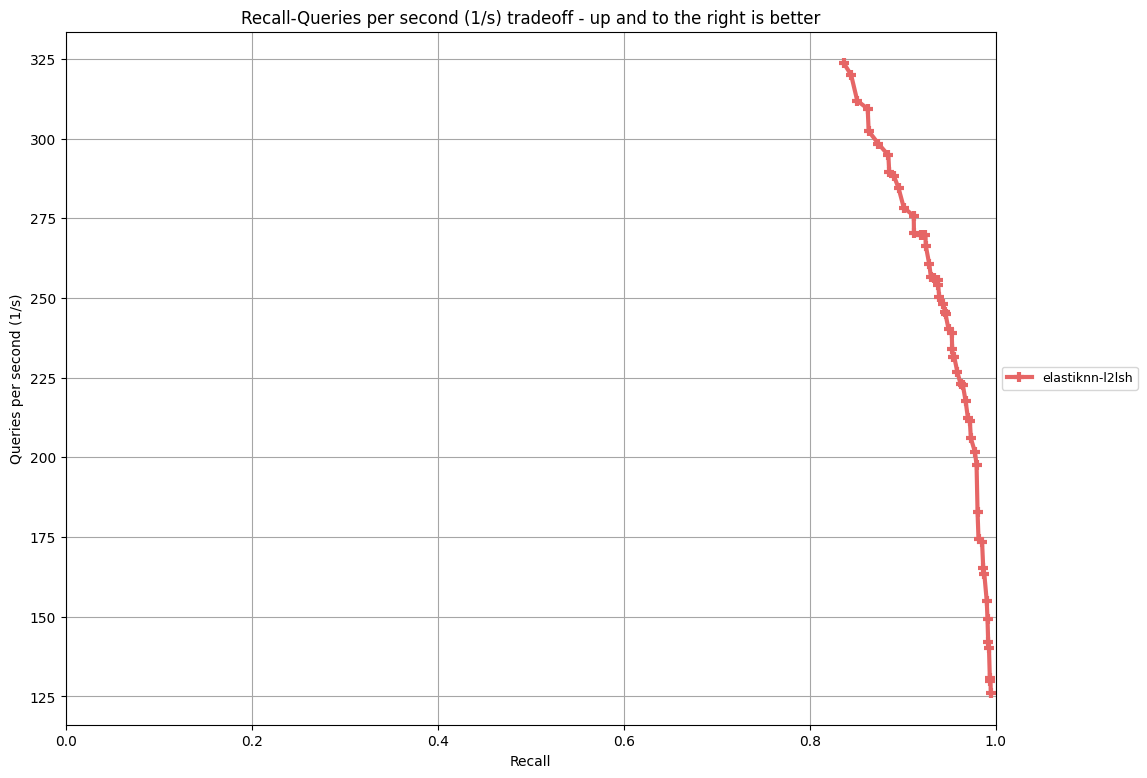
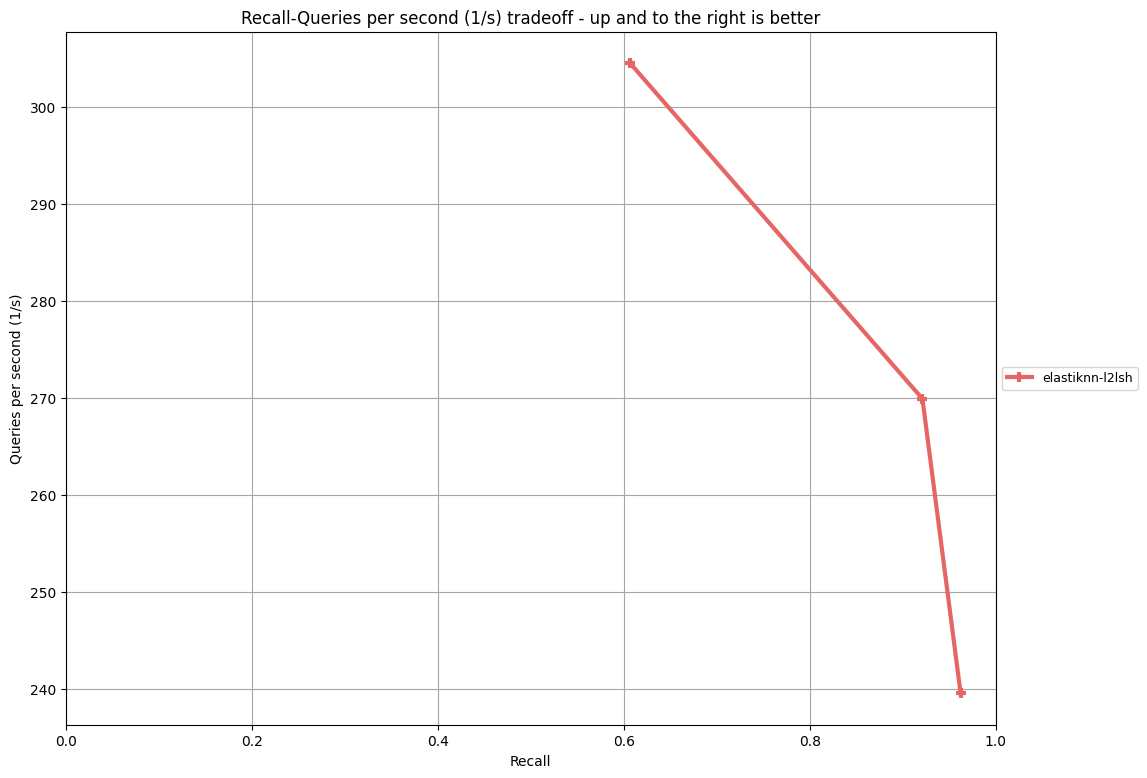
fewer results

diff --git a/docs/pages/performance/fashion-mnist/results.md b/docs/pages/performance/fashion-mnist/results.md
@@ -1,358 +1,5 @@
 |Model|Parameters|Recall|Queries per Second|
 |---|---|---|---|
-|eknn-l2lsh|L=125 k=9 w=3900 candidates=500 probes=0|0.837|323.650|
-|eknn-l2lsh|L=125 k=9 w=4000 candidates=500 probes=0|0.845|319.979|
-|eknn-l2lsh|L=125 k=9 w=4100 candidates=500 probes=0|0.851|311.906|
-|eknn-l2lsh|L=125 k=8 w=3900 candidates=500 probes=0|0.862|309.353|
-|eknn-l2lsh|L=150 k=9 w=3900 candidates=500 probes=0|0.863|302.352|
-|eknn-l2lsh|L=150 k=9 w=4000 candidates=500 probes=0|0.870|298.232|
-|eknn-l2lsh|L=125 k=8 w=4100 candidates=500 probes=0|0.874|298.451|
-|eknn-l2lsh|L=150 k=9 w=4100 candidates=500 probes=0|0.877|285.484|
-|eknn-l2lsh|L=125 k=9 w=3900 candidates=750 probes=0|0.877|292.179|
-|eknn-l2lsh|L=175 k=9 w=3900 candidates=500 probes=0|0.882|282.479|
-|eknn-l2lsh|L=125 k=7 w=3900 candidates=500 probes=0|0.884|289.416|
-|eknn-l2lsh|L=125 k=9 w=4000 candidates=750 probes=0|0.885|294.792|
-|eknn-l2lsh|L=150 k=8 w=3900 candidates=500 probes=0|0.886|289.585|
-|eknn-l2lsh|L=125 k=7 w=4000 candidates=500 probes=0|0.889|282.787|
-|eknn-l2lsh|L=175 k=9 w=4000 candidates=500 probes=0|0.889|286.607|
-|eknn-l2lsh|L=150 k=8 w=4000 candidates=500 probes=0|0.891|280.175|
-|eknn-l2lsh|L=125 k=9 w=4100 candidates=750 probes=0|0.891|288.164|
-|eknn-l2lsh|L=125 k=7 w=4100 candidates=500 probes=0|0.892|277.219|
-|eknn-l2lsh|L=175 k=9 w=4100 candidates=500 probes=0|0.895|277.871|
-|eknn-l2lsh|L=125 k=9 w=3900 candidates=500 probes=1|0.896|253.335|
-|eknn-l2lsh|L=150 k=8 w=4100 candidates=500 probes=0|0.896|284.495|
-|eknn-l2lsh|L=200 k=9 w=3900 candidates=500 probes=0|0.897|273.516|
-|eknn-l2lsh|L=125 k=9 w=3900 candidates=1000 probes=0|0.900|276.969|
-|eknn-l2lsh|L=150 k=9 w=3900 candidates=750 probes=0|0.900|277.357|
-|eknn-l2lsh|L=125 k=8 w=3900 candidates=750 probes=0|0.901|278.315|
-|eknn-l2lsh|L=125 k=9 w=4000 candidates=500 probes=1|0.902|255.236|
-|eknn-l2lsh|L=200 k=9 w=4000 candidates=500 probes=0|0.903|269.983|
-|eknn-l2lsh|L=175 k=8 w=3900 candidates=500 probes=0|0.904|272.791|
-|eknn-l2lsh|L=150 k=7 w=3900 candidates=500 probes=0|0.906|264.575|
-|eknn-l2lsh|L=150 k=9 w=4000 candidates=750 probes=0|0.906|275.675|
-|eknn-l2lsh|L=125 k=9 w=4100 candidates=500 probes=1|0.907|248.027|
-|eknn-l2lsh|L=125 k=9 w=4000 candidates=1000 probes=0|0.907|274.705|
-|eknn-l2lsh|L=200 k=9 w=4100 candidates=500 probes=0|0.909|260.129|
-|eknn-l2lsh|L=175 k=8 w=4000 candidates=500 probes=0|0.909|272.299|
-|eknn-l2lsh|L=150 k=9 w=4100 candidates=750 probes=0|0.912|266.915|
-|eknn-l2lsh|L=125 k=9 w=4100 candidates=1000 probes=0|0.912|270.403|
-|eknn-l2lsh|L=125 k=8 w=4100 candidates=750 probes=0|0.912|275.778|
-|eknn-l2lsh|L=125 k=9 w=3900 candidates=1250 probes=0|0.914|259.536|
-|eknn-l2lsh|L=150 k=7 w=4100 candidates=500 probes=0|0.914|264.401|
-|eknn-l2lsh|L=175 k=9 w=3900 candidates=750 probes=0|0.915|267.361|
-|eknn-l2lsh|L=150 k=9 w=3900 candidates=500 probes=1|0.916|233.020|
-|eknn-l2lsh|L=125 k=8 w=3900 candidates=500 probes=1|0.917|242.059|
-|eknn-l2lsh|L=150 k=9 w=3900 candidates=1000 probes=0|0.919|262.989|
-|eknn-l2lsh|L=125 k=7 w=3900 candidates=750 probes=0|0.920|269.825|
-|eknn-l2lsh|L=150 k=8 w=3900 candidates=750 probes=0|0.920|269.915|
-|eknn-l2lsh|L=150 k=9 w=4000 candidates=500 probes=1|0.921|232.303|
-|eknn-l2lsh|L=175 k=7 w=3900 candidates=500 probes=0|0.921|257.151|
-|eknn-l2lsh|L=175 k=9 w=4000 candidates=750 probes=0|0.921|263.695|
-|eknn-l2lsh|L=125 k=8 w=3900 candidates=1000 probes=0|0.922|261.355|
-|eknn-l2lsh|L=125 k=9 w=3900 candidates=500 probes=2|0.924|217.381|
-|eknn-l2lsh|L=125 k=8 w=4100 candidates=500 probes=1|0.925|236.820|
-|eknn-l2lsh|L=175 k=7 w=4000 candidates=500 probes=0|0.925|254.374|
-|eknn-l2lsh|L=150 k=9 w=4000 candidates=1000 probes=0|0.925|257.201|
-|eknn-l2lsh|L=125 k=7 w=4000 candidates=750 probes=0|0.925|266.401|
-|eknn-l2lsh|L=150 k=8 w=4000 candidates=750 probes=0|0.925|269.618|
-|eknn-l2lsh|L=150 k=9 w=4100 candidates=500 probes=1|0.926|222.971|
-|eknn-l2lsh|L=200 k=8 w=4100 candidates=500 probes=0|0.926|248.573|
-|eknn-l2lsh|L=125 k=9 w=4100 candidates=1250 probes=0|0.926|250.285|
-|eknn-l2lsh|L=125 k=9 w=3900 candidates=750 probes=1|0.927|239.317|
-|eknn-l2lsh|L=175 k=9 w=4100 candidates=750 probes=0|0.927|256.851|
-|eknn-l2lsh|L=200 k=9 w=3900 candidates=750 probes=0|0.927|258.428|
-|eknn-l2lsh|L=125 k=9 w=4000 candidates=500 probes=2|0.928|220.280|
-|eknn-l2lsh|L=125 k=7 w=4100 candidates=750 probes=0|0.928|258.768|
-|eknn-l2lsh|L=175 k=9 w=3900 candidates=500 probes=1|0.929|215.929|
-|eknn-l2lsh|L=150 k=8 w=4100 candidates=750 probes=0|0.929|260.596|
-|eknn-l2lsh|L=150 k=9 w=4100 candidates=1000 probes=0|0.930|256.525|
-|eknn-l2lsh|L=150 k=9 w=3900 candidates=1250 probes=0|0.931|244.528|
-|eknn-l2lsh|L=125 k=9 w=4100 candidates=500 probes=2|0.932|213.809|
-|eknn-l2lsh|L=125 k=9 w=4000 candidates=750 probes=1|0.932|238.150|
-|eknn-l2lsh|L=200 k=9 w=4000 candidates=750 probes=0|0.932|245.158|
-|eknn-l2lsh|L=125 k=8 w=4100 candidates=1000 probes=0|0.932|251.971|
-|eknn-l2lsh|L=150 k=8 w=3900 candidates=500 probes=1|0.933|224.721|
-|eknn-l2lsh|L=125 k=7 w=3900 candidates=500 probes=1|0.933|225.817|
-|eknn-l2lsh|L=175 k=9 w=3900 candidates=1000 probes=0|0.933|248.932|
-|eknn-l2lsh|L=175 k=9 w=4000 candidates=500 probes=1|0.934|214.027|
-|eknn-l2lsh|L=200 k=7 w=3900 candidates=500 probes=0|0.934|243.251|
-|eknn-l2lsh|L=175 k=8 w=3900 candidates=750 probes=0|0.934|256.273|
-|eknn-l2lsh|L=125 k=8 w=3900 candidates=1250 probes=0|0.935|244.842|
-|eknn-l2lsh|L=125 k=7 w=4000 candidates=500 probes=1|0.936|222.739|
-|eknn-l2lsh|L=125 k=9 w=4100 candidates=750 probes=1|0.936|232.567|
-|eknn-l2lsh|L=150 k=8 w=4000 candidates=500 probes=1|0.937|209.724|
-|eknn-l2lsh|L=200 k=7 w=4000 candidates=500 probes=0|0.937|237.096|
-|eknn-l2lsh|L=150 k=9 w=4000 candidates=1250 probes=0|0.937|242.487|
-|eknn-l2lsh|L=150 k=8 w=3900 candidates=1000 probes=0|0.937|246.914|
-|eknn-l2lsh|L=200 k=9 w=4100 candidates=750 probes=0|0.937|250.330|
-|eknn-l2lsh|L=175 k=9 w=4100 candidates=500 probes=1|0.938|208.918|
-|eknn-l2lsh|L=175 k=9 w=4000 candidates=1000 probes=0|0.938|235.525|
-|eknn-l2lsh|L=175 k=8 w=4000 candidates=750 probes=0|0.938|253.939|
-|eknn-l2lsh|L=150 k=7 w=3900 candidates=750 probes=0|0.938|255.499|
-|eknn-l2lsh|L=150 k=9 w=3900 candidates=500 probes=2|0.939|199.486|
-|eknn-l2lsh|L=125 k=7 w=4100 candidates=500 probes=1|0.939|218.346|
-|eknn-l2lsh|L=200 k=7 w=4100 candidates=500 probes=0|0.939|232.796|
-|eknn-l2lsh|L=125 k=7 w=3900 candidates=1000 probes=0|0.939|250.426|
-|eknn-l2lsh|L=200 k=9 w=3900 candidates=500 probes=1|0.940|203.171|
-|eknn-l2lsh|L=125 k=8 w=3900 candidates=500 probes=2|0.940|209.130|
-|eknn-l2lsh|L=150 k=8 w=4100 candidates=500 probes=1|0.940|214.884|
-|eknn-l2lsh|L=150 k=9 w=3900 candidates=750 probes=1|0.942|220.811|
-|eknn-l2lsh|L=200 k=9 w=3900 candidates=1000 probes=0|0.942|238.436|
-|eknn-l2lsh|L=150 k=9 w=4100 candidates=1250 probes=0|0.942|240.364|
-|eknn-l2lsh|L=150 k=8 w=4000 candidates=1000 probes=0|0.942|245.700|
-|eknn-l2lsh|L=150 k=9 w=4000 candidates=500 probes=2|0.943|198.876|
-|eknn-l2lsh|L=125 k=9 w=3900 candidates=1000 probes=1|0.943|227.127|
-|eknn-l2lsh|L=175 k=9 w=3900 candidates=1250 probes=0|0.943|232.425|
-|eknn-l2lsh|L=175 k=9 w=4100 candidates=1000 probes=0|0.943|242.498|
-|eknn-l2lsh|L=125 k=7 w=4000 candidates=1000 probes=0|0.943|246.386|
-|eknn-l2lsh|L=200 k=9 w=4000 candidates=500 probes=1|0.944|199.125|
-|eknn-l2lsh|L=125 k=8 w=3900 candidates=750 probes=1|0.944|217.569|
-|eknn-l2lsh|L=125 k=8 w=4100 candidates=1250 probes=0|0.944|239.834|
-|eknn-l2lsh|L=150 k=7 w=4100 candidates=750 probes=0|0.944|247.966|
-|eknn-l2lsh|L=175 k=8 w=3900 candidates=500 probes=1|0.945|203.812|
-|eknn-l2lsh|L=150 k=8 w=4100 candidates=1000 probes=0|0.945|245.532|
-|eknn-l2lsh|L=125 k=8 w=4100 candidates=500 probes=2|0.946|201.687|
-|eknn-l2lsh|L=125 k=7 w=4100 candidates=1000 probes=0|0.946|244.874|
-|eknn-l2lsh|L=150 k=9 w=4100 candidates=500 probes=2|0.947|188.774|
-|eknn-l2lsh|L=200 k=9 w=4100 candidates=500 probes=1|0.947|197.100|
-|eknn-l2lsh|L=150 k=9 w=4000 candidates=750 probes=1|0.947|219.975|
-|eknn-l2lsh|L=125 k=9 w=4000 candidates=1000 probes=1|0.947|225.280|
-|eknn-l2lsh|L=200 k=9 w=4000 candidates=1000 probes=0|0.947|238.454|
-|eknn-l2lsh|L=175 k=8 w=4000 candidates=500 probes=1|0.948|202.060|
-|eknn-l2lsh|L=150 k=7 w=3900 candidates=500 probes=1|0.948|206.707|
-|eknn-l2lsh|L=125 k=9 w=3900 candidates=750 probes=2|0.948|209.180|
-|eknn-l2lsh|L=175 k=9 w=4000 candidates=1250 probes=0|0.948|225.770|
-|eknn-l2lsh|L=150 k=8 w=3900 candidates=1250 probes=0|0.948|237.059|
-|eknn-l2lsh|L=175 k=9 w=3900 candidates=500 probes=2|0.949|183.198|
-|eknn-l2lsh|L=175 k=7 w=3900 candidates=750 probes=0|0.949|234.738|
-|eknn-l2lsh|L=175 k=8 w=3900 candidates=1000 probes=0|0.949|240.218|
-|eknn-l2lsh|L=150 k=9 w=4100 candidates=750 probes=1|0.950|213.884|
-|eknn-l2lsh|L=125 k=8 w=4100 candidates=750 probes=1|0.951|219.195|
-|eknn-l2lsh|L=125 k=9 w=4100 candidates=1000 probes=1|0.951|219.441|
-|eknn-l2lsh|L=200 k=9 w=4100 candidates=1000 probes=0|0.951|234.136|
-|eknn-l2lsh|L=125 k=7 w=3900 candidates=1250 probes=0|0.951|235.937|
-|eknn-l2lsh|L=200 k=8 w=4100 candidates=750 probes=0|0.951|237.657|
-|eknn-l2lsh|L=150 k=8 w=3900 candidates=500 probes=2|0.952|189.909|
-|eknn-l2lsh|L=175 k=9 w=3900 candidates=750 probes=1|0.952|206.997|
-|eknn-l2lsh|L=125 k=9 w=4000 candidates=750 probes=2|0.952|208.470|
-|eknn-l2lsh|L=125 k=9 w=3900 candidates=1250 probes=1|0.952|213.370|
-|eknn-l2lsh|L=200 k=9 w=3900 candidates=1250 probes=0|0.952|216.606|
-|eknn-l2lsh|L=150 k=8 w=4000 candidates=1250 probes=0|0.952|232.135|
-|eknn-l2lsh|L=175 k=7 w=4000 candidates=750 probes=0|0.952|235.437|
-|eknn-l2lsh|L=175 k=9 w=4000 candidates=500 probes=2|0.953|181.086|
-|eknn-l2lsh|L=125 k=7 w=3900 candidates=500 probes=2|0.953|196.345|
-|eknn-l2lsh|L=150 k=7 w=4100 candidates=500 probes=1|0.953|203.767|
-|eknn-l2lsh|L=175 k=9 w=4100 candidates=1250 probes=0|0.953|227.474|
-|eknn-l2lsh|L=150 k=7 w=3900 candidates=1000 probes=0|0.953|234.020|
-|eknn-l2lsh|L=175 k=8 w=4000 candidates=1000 probes=0|0.953|239.020|
-|eknn-l2lsh|L=125 k=7 w=4000 candidates=1250 probes=0|0.954|231.635|
-|eknn-l2lsh|L=150 k=8 w=4000 candidates=500 probes=2|0.955|180.825|
-|eknn-l2lsh|L=125 k=7 w=4000 candidates=500 probes=2|0.955|191.810|
-|eknn-l2lsh|L=125 k=9 w=4100 candidates=750 probes=2|0.955|201.907|
-|eknn-l2lsh|L=150 k=9 w=3900 candidates=1000 probes=1|0.955|209.590|
-|eknn-l2lsh|L=175 k=9 w=4100 candidates=500 probes=2|0.956|177.716|
-|eknn-l2lsh|L=175 k=9 w=4000 candidates=750 probes=1|0.956|200.126|
-|eknn-l2lsh|L=150 k=8 w=3900 candidates=750 probes=1|0.956|213.143|
-|eknn-l2lsh|L=200 k=9 w=4000 candidates=1250 probes=0|0.956|221.315|
-|eknn-l2lsh|L=150 k=8 w=4100 candidates=1250 probes=0|0.956|231.391|
-|eknn-l2lsh|L=200 k=9 w=3900 candidates=500 probes=2|0.957|170.595|
-|eknn-l2lsh|L=125 k=7 w=4100 candidates=500 probes=2|0.957|186.862|
-|eknn-l2lsh|L=125 k=7 w=4100 candidates=1250 probes=0|0.957|224.911|
-|eknn-l2lsh|L=150 k=8 w=4100 candidates=500 probes=2|0.958|183.474|
-|eknn-l2lsh|L=175 k=7 w=3900 candidates=500 probes=1|0.958|194.054|
-|eknn-l2lsh|L=125 k=8 w=3900 candidates=1000 probes=1|0.958|208.477|
-|eknn-l2lsh|L=125 k=7 w=3900 candidates=750 probes=1|0.958|213.409|
-|eknn-l2lsh|L=200 k=7 w=3900 candidates=750 probes=0|0.958|224.903|
-|eknn-l2lsh|L=200 k=8 w=4100 candidates=500 probes=1|0.959|187.307|
-|eknn-l2lsh|L=150 k=9 w=3900 candidates=750 probes=2|0.959|192.285|
-|eknn-l2lsh|L=175 k=9 w=4100 candidates=750 probes=1|0.959|195.500|
-|eknn-l2lsh|L=150 k=9 w=4000 candidates=1000 probes=1|0.959|205.758|
-|eknn-l2lsh|L=150 k=8 w=4000 candidates=750 probes=1|0.959|210.001|
-|eknn-l2lsh|L=175 k=8 w=3900 candidates=1250 probes=0|0.959|224.310|
-|eknn-l2lsh|L=150 k=7 w=4100 candidates=1000 probes=0|0.959|226.857|
-|eknn-l2lsh|L=175 k=7 w=4000 candidates=500 probes=1|0.960|189.476|
-|eknn-l2lsh|L=200 k=9 w=3900 candidates=750 probes=1|0.960|191.764|
-|eknn-l2lsh|L=125 k=9 w=3900 candidates=1000 probes=2|0.960|201.594|
-|eknn-l2lsh|L=125 k=9 w=4100 candidates=1250 probes=1|0.960|206.423|
-|eknn-l2lsh|L=125 k=7 w=4000 candidates=750 probes=1|0.960|209.464|
-|eknn-l2lsh|L=200 k=9 w=4100 candidates=1250 probes=0|0.960|221.266|
-|eknn-l2lsh|L=200 k=7 w=4000 candidates=750 probes=0|0.960|221.518|
-|eknn-l2lsh|L=200 k=9 w=4000 candidates=500 probes=2|0.961|165.952|
-|eknn-l2lsh|L=125 k=8 w=3900 candidates=750 probes=2|0.961|195.683|
-|eknn-l2lsh|L=175 k=8 w=3900 candidates=500 probes=2|0.962|174.431|
-|eknn-l2lsh|L=150 k=9 w=4000 candidates=750 probes=2|0.962|190.600|
-|eknn-l2lsh|L=150 k=9 w=4100 candidates=1000 probes=1|0.962|202.603|
-|eknn-l2lsh|L=125 k=7 w=4100 candidates=750 probes=1|0.962|204.999|
-|eknn-l2lsh|L=150 k=8 w=4100 candidates=750 probes=1|0.962|205.715|
-|eknn-l2lsh|L=175 k=8 w=4000 candidates=1250 probes=0|0.962|222.790|
-|eknn-l2lsh|L=175 k=7 w=3900 candidates=1000 probes=0|0.962|222.959|
-|eknn-l2lsh|L=200 k=9 w=4100 candidates=500 probes=2|0.963|165.919|
-|eknn-l2lsh|L=200 k=9 w=4000 candidates=750 probes=1|0.963|189.180|
-|eknn-l2lsh|L=150 k=9 w=3900 candidates=1250 probes=1|0.963|198.103|
-|eknn-l2lsh|L=150 k=7 w=3900 candidates=1250 probes=0|0.963|211.024|
-|eknn-l2lsh|L=200 k=7 w=4100 candidates=750 probes=0|0.963|214.423|
-|eknn-l2lsh|L=175 k=8 w=4000 candidates=500 probes=2|0.964|170.576|
-|eknn-l2lsh|L=150 k=7 w=3900 candidates=500 probes=2|0.964|176.316|
-|eknn-l2lsh|L=175 k=9 w=3900 candidates=1000 probes=1|0.964|190.995|
-|eknn-l2lsh|L=125 k=8 w=4100 candidates=1000 probes=1|0.964|203.809|
-|eknn-l2lsh|L=200 k=8 w=4100 candidates=1000 probes=0|0.964|220.637|
-|eknn-l2lsh|L=200 k=7 w=3900 candidates=500 probes=1|0.965|170.608|
-|eknn-l2lsh|L=175 k=8 w=3900 candidates=750 probes=1|0.965|193.101|
-|eknn-l2lsh|L=175 k=7 w=4000 candidates=1000 probes=0|0.965|222.720|
-|eknn-l2lsh|L=150 k=9 w=4100 candidates=750 probes=2|0.966|184.985|
-|eknn-l2lsh|L=200 k=9 w=4100 candidates=750 probes=1|0.966|187.450|
-|eknn-l2lsh|L=125 k=9 w=4100 candidates=1000 probes=2|0.966|192.040|
-|eknn-l2lsh|L=125 k=8 w=3900 candidates=1250 probes=1|0.966|203.273|
-|eknn-l2lsh|L=200 k=7 w=4000 candidates=500 probes=1|0.967|172.951|
-|eknn-l2lsh|L=175 k=9 w=3900 candidates=750 probes=2|0.967|175.534|
-|eknn-l2lsh|L=175 k=9 w=4000 candidates=1000 probes=1|0.967|187.608|
-|eknn-l2lsh|L=125 k=8 w=4100 candidates=750 probes=2|0.967|190.711|
-|eknn-l2lsh|L=175 k=8 w=4000 candidates=750 probes=1|0.967|193.286|
-|eknn-l2lsh|L=150 k=9 w=4000 candidates=1250 probes=1|0.967|195.426|
-|eknn-l2lsh|L=150 k=7 w=4100 candidates=500 probes=2|0.968|169.566|
-|eknn-l2lsh|L=125 k=9 w=3900 candidates=1250 probes=2|0.968|189.159|
-|eknn-l2lsh|L=150 k=8 w=3900 candidates=1000 probes=1|0.968|195.836|
-|eknn-l2lsh|L=150 k=7 w=3900 candidates=750 probes=1|0.968|197.120|
-|eknn-l2lsh|L=150 k=7 w=4100 candidates=1250 probes=0|0.968|217.790|
-|eknn-l2lsh|L=200 k=7 w=4100 candidates=500 probes=1|0.969|169.462|
-|eknn-l2lsh|L=150 k=9 w=3900 candidates=1000 probes=2|0.969|177.270|
-|eknn-l2lsh|L=200 k=9 w=3900 candidates=1000 probes=1|0.969|184.638|
-|eknn-l2lsh|L=200 k=7 w=3900 candidates=1000 probes=0|0.969|209.121|
-|eknn-l2lsh|L=175 k=9 w=4000 candidates=750 probes=2|0.970|172.460|
-|eknn-l2lsh|L=150 k=8 w=3900 candidates=750 probes=2|0.970|181.551|
-|eknn-l2lsh|L=175 k=9 w=3900 candidates=1250 probes=1|0.970|183.826|
-|eknn-l2lsh|L=175 k=9 w=4100 candidates=1000 probes=1|0.970|187.352|
-|eknn-l2lsh|L=150 k=9 w=4100 candidates=1250 probes=1|0.970|195.084|
-|eknn-l2lsh|L=150 k=8 w=4000 candidates=1000 probes=1|0.970|197.122|
-|eknn-l2lsh|L=125 k=7 w=3900 candidates=1000 probes=1|0.970|200.830|
-|eknn-l2lsh|L=175 k=7 w=3900 candidates=1250 probes=0|0.970|212.504|
-|eknn-l2lsh|L=175 k=7 w=3900 candidates=500 probes=2|0.971|158.635|
-|eknn-l2lsh|L=125 k=8 w=4100 candidates=1250 probes=1|0.971|195.239|
-|eknn-l2lsh|L=200 k=8 w=4100 candidates=1250 probes=0|0.971|209.429|
-|eknn-l2lsh|L=200 k=7 w=4000 candidates=1000 probes=0|0.971|209.860|
-|eknn-l2lsh|L=200 k=8 w=4100 candidates=500 probes=2|0.972|156.062|
-|eknn-l2lsh|L=175 k=9 w=4100 candidates=750 probes=2|0.972|167.739|
-|eknn-l2lsh|L=200 k=9 w=4000 candidates=1000 probes=1|0.972|180.587|
-|eknn-l2lsh|L=150 k=9 w=4000 candidates=1000 probes=2|0.972|180.912|
-|eknn-l2lsh|L=125 k=7 w=3900 candidates=750 probes=2|0.972|184.359|
-|eknn-l2lsh|L=125 k=8 w=3900 candidates=1000 probes=2|0.972|184.815|
-|eknn-l2lsh|L=150 k=7 w=4100 candidates=750 probes=1|0.972|188.104|
-|eknn-l2lsh|L=125 k=7 w=4000 candidates=1000 probes=1|0.972|197.987|
-|eknn-l2lsh|L=175 k=7 w=4000 candidates=1250 probes=0|0.972|211.460|
-|eknn-l2lsh|L=175 k=7 w=4000 candidates=500 probes=2|0.973|158.915|
-|eknn-l2lsh|L=200 k=9 w=3900 candidates=750 probes=2|0.973|163.680|
-|eknn-l2lsh|L=150 k=8 w=4000 candidates=750 probes=2|0.973|180.931|
-|eknn-l2lsh|L=175 k=9 w=4000 candidates=1250 probes=1|0.973|183.447|
-|eknn-l2lsh|L=125 k=9 w=4100 candidates=1250 probes=2|0.973|183.616|
-|eknn-l2lsh|L=150 k=8 w=4100 candidates=1000 probes=1|0.973|194.179|
-|eknn-l2lsh|L=125 k=7 w=4100 candidates=1000 probes=1|0.973|196.158|
-|eknn-l2lsh|L=200 k=7 w=4100 candidates=1000 probes=0|0.973|206.000|
-|eknn-l2lsh|L=125 k=7 w=4000 candidates=750 probes=2|0.974|181.437|
-|eknn-l2lsh|L=175 k=8 w=3900 candidates=1000 probes=1|0.974|182.369|
-|eknn-l2lsh|L=150 k=8 w=3900 candidates=1250 probes=1|0.974|190.636|
-|eknn-l2lsh|L=200 k=9 w=4000 candidates=750 probes=2|0.975|159.587|
-|eknn-l2lsh|L=200 k=9 w=3900 candidates=1250 probes=1|0.975|164.301|
-|eknn-l2lsh|L=175 k=9 w=3900 candidates=1000 probes=2|0.975|167.418|
-|eknn-l2lsh|L=150 k=9 w=3900 candidates=1250 probes=2|0.975|173.881|
-|eknn-l2lsh|L=150 k=8 w=4100 candidates=750 probes=2|0.975|175.020|
-|eknn-l2lsh|L=125 k=7 w=4100 candidates=750 probes=2|0.975|177.351|
-|eknn-l2lsh|L=200 k=8 w=4100 candidates=750 probes=1|0.975|177.736|
-|eknn-l2lsh|L=150 k=9 w=4100 candidates=1000 probes=2|0.975|178.600|
-|eknn-l2lsh|L=200 k=9 w=4100 candidates=1000 probes=1|0.975|178.742|
-|eknn-l2lsh|L=175 k=7 w=3900 candidates=750 probes=1|0.975|179.769|
-|eknn-l2lsh|L=175 k=8 w=3900 candidates=750 probes=2|0.976|166.383|
-|eknn-l2lsh|L=175 k=8 w=4000 candidates=1000 probes=1|0.976|176.214|
-|eknn-l2lsh|L=175 k=7 w=4000 candidates=750 probes=1|0.976|176.770|
-|eknn-l2lsh|L=175 k=9 w=4100 candidates=1250 probes=1|0.976|178.650|
-|eknn-l2lsh|L=125 k=8 w=4100 candidates=1000 probes=2|0.976|179.341|
-|eknn-l2lsh|L=150 k=8 w=4000 candidates=1250 probes=1|0.976|188.064|
-|eknn-l2lsh|L=125 k=7 w=3900 candidates=1250 probes=1|0.976|192.985|
-|eknn-l2lsh|L=200 k=7 w=3900 candidates=1250 probes=0|0.976|195.296|
-|eknn-l2lsh|L=200 k=7 w=3900 candidates=500 probes=2|0.977|139.436|
-|eknn-l2lsh|L=200 k=9 w=4100 candidates=750 probes=2|0.977|158.559|
-|eknn-l2lsh|L=150 k=7 w=3900 candidates=1000 probes=1|0.977|175.861|
-|eknn-l2lsh|L=200 k=7 w=4000 candidates=500 probes=2|0.978|141.893|
-|eknn-l2lsh|L=175 k=9 w=4000 candidates=1000 probes=2|0.978|159.401|
-|eknn-l2lsh|L=150 k=9 w=4000 candidates=1250 probes=2|0.978|172.674|
-|eknn-l2lsh|L=200 k=9 w=4000 candidates=1250 probes=1|0.978|172.968|
-|eknn-l2lsh|L=125 k=8 w=3900 candidates=1250 probes=2|0.978|179.267|
-|eknn-l2lsh|L=150 k=8 w=4100 candidates=1250 probes=1|0.978|184.691|
-|eknn-l2lsh|L=125 k=7 w=4000 candidates=1250 probes=1|0.978|189.013|
-|eknn-l2lsh|L=200 k=7 w=4000 candidates=1250 probes=0|0.978|201.735|
-|eknn-l2lsh|L=200 k=7 w=4100 candidates=500 probes=2|0.979|139.828|
-|eknn-l2lsh|L=175 k=8 w=4000 candidates=750 probes=2|0.979|163.503|
-|eknn-l2lsh|L=150 k=7 w=3900 candidates=750 probes=2|0.979|167.659|
-|eknn-l2lsh|L=150 k=8 w=3900 candidates=1000 probes=2|0.979|173.302|
-|eknn-l2lsh|L=200 k=7 w=4100 candidates=1250 probes=0|0.979|197.590|
-|eknn-l2lsh|L=200 k=9 w=3900 candidates=1000 probes=2|0.980|149.577|
-|eknn-l2lsh|L=175 k=9 w=3900 candidates=1250 probes=2|0.980|159.601|
-|eknn-l2lsh|L=175 k=9 w=4100 candidates=1000 probes=2|0.980|159.869|
-|eknn-l2lsh|L=150 k=8 w=4000 candidates=1000 probes=2|0.980|168.212|
-|eknn-l2lsh|L=200 k=7 w=3900 candidates=750 probes=1|0.980|169.016|
-|eknn-l2lsh|L=200 k=9 w=4100 candidates=1250 probes=1|0.980|169.150|
-|eknn-l2lsh|L=150 k=9 w=4100 candidates=1250 probes=2|0.980|171.101|
-|eknn-l2lsh|L=125 k=7 w=3900 candidates=1000 probes=2|0.980|176.214|
-|eknn-l2lsh|L=175 k=8 w=3900 candidates=1250 probes=1|0.980|177.663|
-|eknn-l2lsh|L=125 k=7 w=4100 candidates=1250 probes=1|0.980|182.451|
-|eknn-l2lsh|L=200 k=7 w=4000 candidates=750 probes=1|0.981|168.508|
-|eknn-l2lsh|L=125 k=8 w=4100 candidates=1250 probes=2|0.981|173.280|
-|eknn-l2lsh|L=150 k=7 w=4100 candidates=1000 probes=1|0.981|182.734|
-|eknn-l2lsh|L=200 k=9 w=4000 candidates=1000 probes=2|0.982|153.807|
-|eknn-l2lsh|L=175 k=9 w=4000 candidates=1250 probes=2|0.982|157.920|
-|eknn-l2lsh|L=200 k=7 w=4100 candidates=750 probes=1|0.982|160.596|
-|eknn-l2lsh|L=150 k=7 w=4100 candidates=750 probes=2|0.982|161.400|
-|eknn-l2lsh|L=150 k=8 w=4100 candidates=1000 probes=2|0.982|161.581|
-|eknn-l2lsh|L=200 k=8 w=4100 candidates=1000 probes=1|0.982|168.609|
-|eknn-l2lsh|L=125 k=7 w=4000 candidates=1000 probes=2|0.982|169.063|
-|eknn-l2lsh|L=175 k=7 w=3900 candidates=1000 probes=1|0.982|173.397|
-|eknn-l2lsh|L=175 k=8 w=4000 candidates=1250 probes=1|0.982|174.306|
-|eknn-l2lsh|L=175 k=8 w=3900 candidates=1000 probes=2|0.983|157.473|
-|eknn-l2lsh|L=150 k=8 w=3900 candidates=1250 probes=2|0.983|165.732|
-|eknn-l2lsh|L=150 k=7 w=3900 candidates=1250 probes=1|0.983|167.695|
-|eknn-l2lsh|L=125 k=7 w=4100 candidates=1000 probes=2|0.983|168.819|
-|eknn-l2lsh|L=200 k=9 w=3900 candidates=1250 probes=2|0.984|142.014|
-|eknn-l2lsh|L=175 k=7 w=3900 candidates=750 probes=2|0.984|147.995|
-|eknn-l2lsh|L=200 k=8 w=4100 candidates=750 probes=2|0.984|148.909|
-|eknn-l2lsh|L=200 k=9 w=4100 candidates=1000 probes=2|0.984|152.098|
-|eknn-l2lsh|L=175 k=9 w=4100 candidates=1250 probes=2|0.984|152.925|
-|eknn-l2lsh|L=175 k=7 w=4000 candidates=1000 probes=1|0.984|172.790|
-|eknn-l2lsh|L=175 k=7 w=4000 candidates=750 probes=2|0.985|150.557|
-|eknn-l2lsh|L=175 k=8 w=4000 candidates=1000 probes=2|0.985|156.827|
-|eknn-l2lsh|L=150 k=8 w=4000 candidates=1250 probes=2|0.985|163.613|
-|eknn-l2lsh|L=125 k=7 w=3900 candidates=1250 probes=2|0.985|166.714|
-|eknn-l2lsh|L=150 k=7 w=4100 candidates=1250 probes=1|0.985|173.447|
-|eknn-l2lsh|L=200 k=9 w=4000 candidates=1250 probes=2|0.986|147.703|
-|eknn-l2lsh|L=150 k=7 w=3900 candidates=1000 probes=2|0.986|152.082|
-|eknn-l2lsh|L=200 k=7 w=3900 candidates=1000 probes=1|0.986|155.294|
-|eknn-l2lsh|L=150 k=8 w=4100 candidates=1250 probes=2|0.986|160.360|
-|eknn-l2lsh|L=125 k=7 w=4000 candidates=1250 probes=2|0.986|165.114|
-|eknn-l2lsh|L=200 k=7 w=3900 candidates=750 probes=2|0.987|141.367|
-|eknn-l2lsh|L=200 k=9 w=4100 candidates=1250 probes=2|0.987|142.536|
-|eknn-l2lsh|L=175 k=8 w=3900 candidates=1250 probes=2|0.987|152.202|
-|eknn-l2lsh|L=200 k=7 w=4000 candidates=1000 probes=1|0.987|158.015|
-|eknn-l2lsh|L=200 k=8 w=4100 candidates=1250 probes=1|0.987|164.391|
-|eknn-l2lsh|L=175 k=7 w=3900 candidates=1250 probes=1|0.987|165.410|
-|eknn-l2lsh|L=200 k=7 w=4000 candidates=750 probes=2|0.988|138.887|
-|eknn-l2lsh|L=175 k=8 w=4000 candidates=1250 probes=2|0.988|149.259|
-|eknn-l2lsh|L=200 k=7 w=4100 candidates=1000 probes=1|0.988|154.212|
-|eknn-l2lsh|L=150 k=7 w=4100 candidates=1000 probes=2|0.988|154.745|
-|eknn-l2lsh|L=125 k=7 w=4100 candidates=1250 probes=2|0.988|159.935|
-|eknn-l2lsh|L=175 k=7 w=4000 candidates=1250 probes=1|0.988|163.292|
-|eknn-l2lsh|L=200 k=7 w=4100 candidates=750 probes=2|0.989|130.462|
-|eknn-l2lsh|L=200 k=8 w=4100 candidates=1000 probes=2|0.989|144.059|
-|eknn-l2lsh|L=150 k=7 w=3900 candidates=1250 probes=2|0.989|145.575|
-|eknn-l2lsh|L=175 k=7 w=3900 candidates=1000 probes=2|0.989|148.949|
-|eknn-l2lsh|L=175 k=7 w=4000 candidates=1000 probes=2|0.990|144.779|
-|eknn-l2lsh|L=200 k=7 w=3900 candidates=1250 probes=1|0.990|154.557|
-|eknn-l2lsh|L=200 k=7 w=4000 candidates=1250 probes=1|0.990|154.886|
-|eknn-l2lsh|L=200 k=7 w=3900 candidates=1000 probes=2|0.991|132.193|
-|eknn-l2lsh|L=150 k=7 w=4100 candidates=1250 probes=2|0.991|149.119|
-|eknn-l2lsh|L=200 k=7 w=4100 candidates=1250 probes=1|0.991|149.197|
-|eknn-l2lsh|L=200 k=7 w=4000 candidates=1000 probes=2|0.992|133.459|
-|eknn-l2lsh|L=200 k=8 w=4100 candidates=1250 probes=2|0.992|137.316|
-|eknn-l2lsh|L=175 k=7 w=3900 candidates=1250 probes=2|0.992|142.170|
-|eknn-l2lsh|L=200 k=7 w=4100 candidates=1000 probes=2|0.993|130.024|
-|eknn-l2lsh|L=175 k=7 w=4000 candidates=1250 probes=2|0.993|140.242|
-|eknn-l2lsh|L=200 k=7 w=4000 candidates=1250 probes=2|0.994|129.749|
-|eknn-l2lsh|L=200 k=7 w=3900 candidates=1250 probes=2|0.994|130.837|
-|eknn-l2lsh|L=200 k=7 w=4100 candidates=1250 probes=2|0.995|126.016|
+|eknn-l2lsh|L=175 k=7 w=3900 candidates=100 probes=0|0.607|304.462|
+|eknn-l2lsh|L=175 k=7 w=3900 candidates=500 probes=0|0.921|269.909|
+|eknn-l2lsh|L=175 k=7 w=3900 candidates=1000 probes=0|0.962|239.598|
